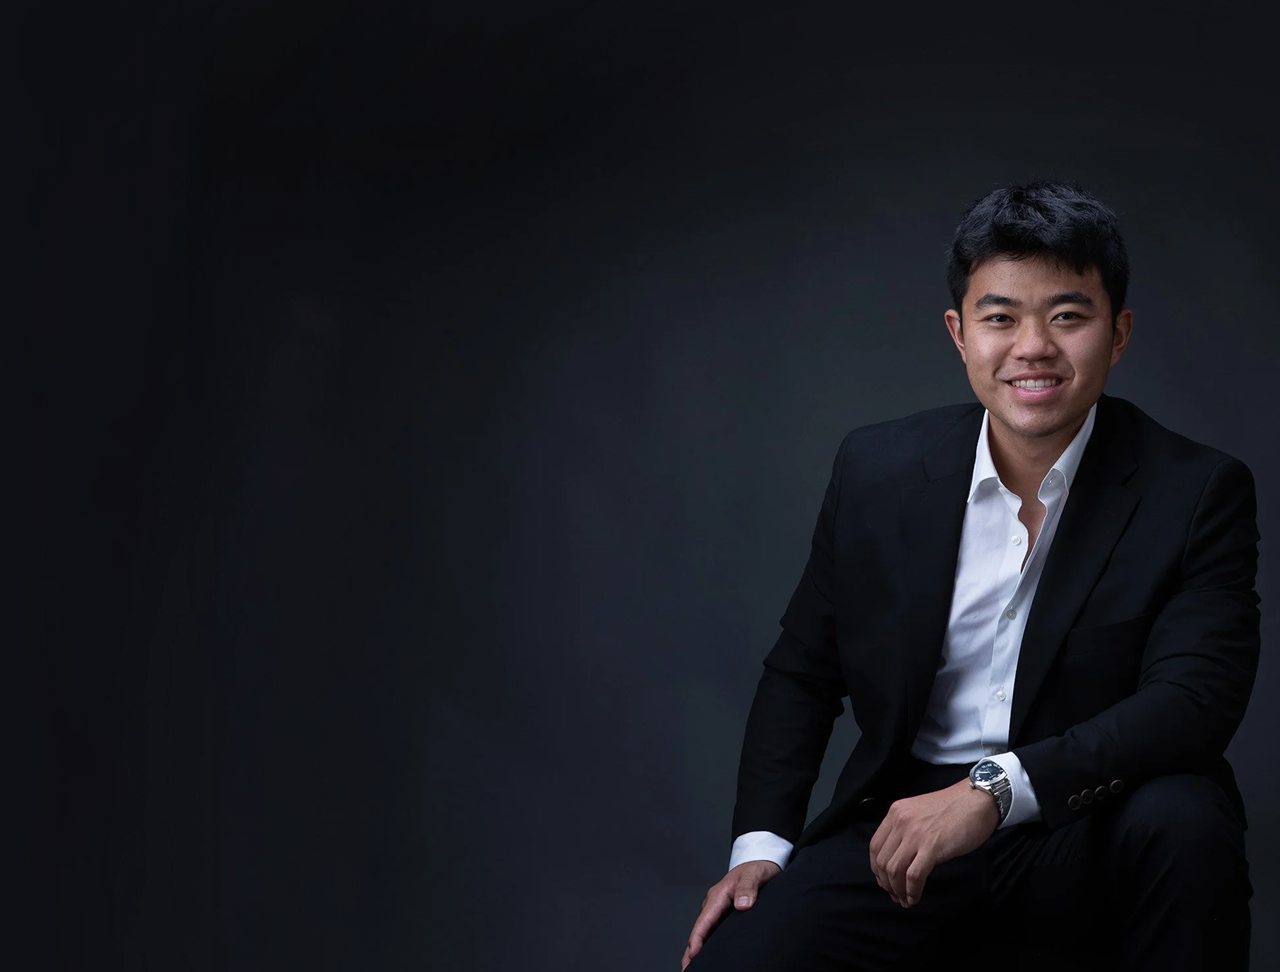
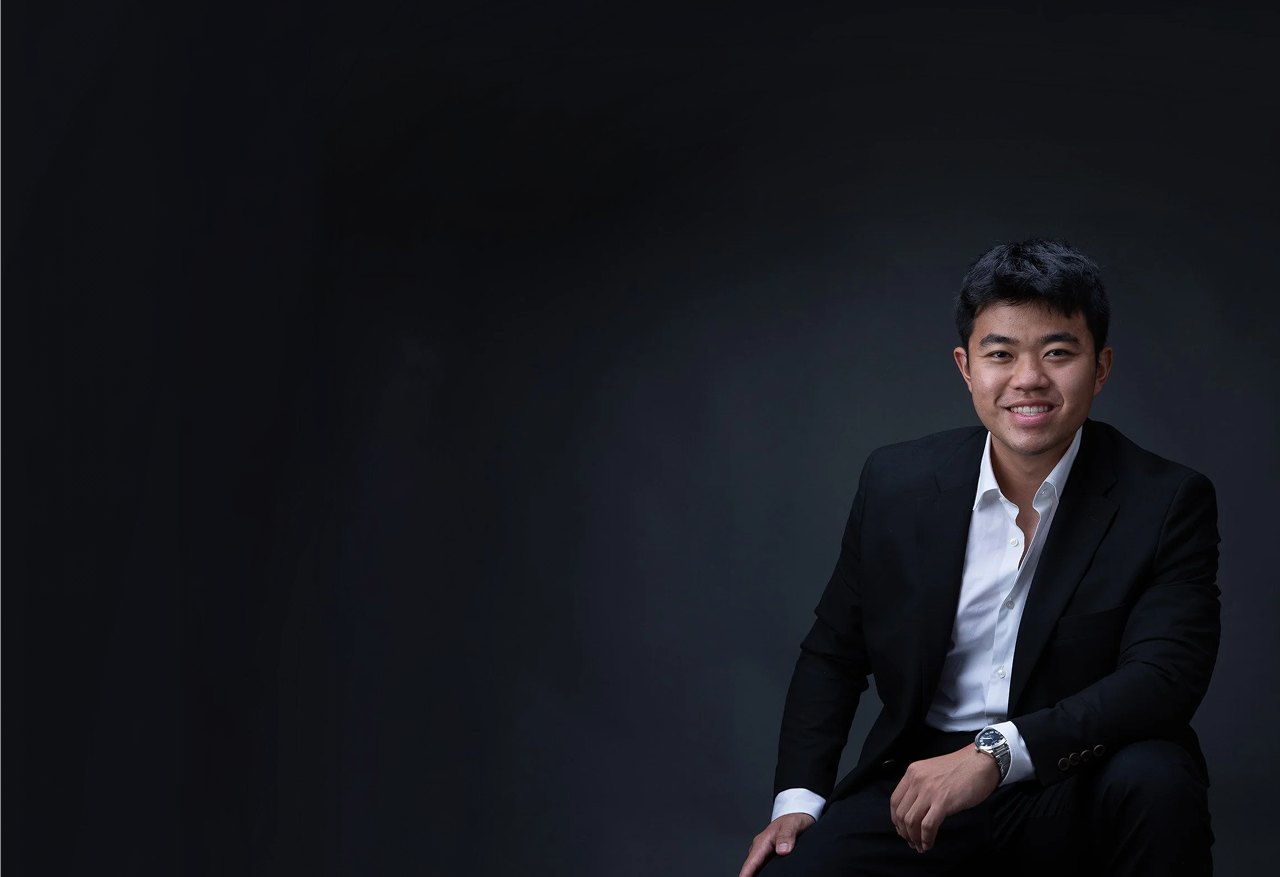
added animation and Landing Adjustment

Changed region(s): [[0.5312, 0.1847, 1.0, 1.0]]

diff --git a/src/components/Projects.css b/src/components/Projects.css
@@ -38,7 +38,7 @@
 .projects-grid {
     display: grid;
     grid-template-columns: 1fr 1fr;
-    height: 840px;
+    height: 650px;
 }
 
 .project-card {
@@ -46,6 +46,23 @@
     height: 100%;
     overflow: hidden;
     cursor: pointer;
+}
+
+.project-card::after {
+    content: '';
+    position: absolute;
+    top: 0;
+    left: 0;
+    width: 100%;
+    height: 100%;
+    background-color: rgba(0, 0, 0, 0.50);
+    transition: background-color 0.5s ease;
+    z-index: 1;
+    pointer-events: none;
+}
+
+.project-card:hover::after {
+    background-color: rgba(0, 0, 0, 0);
 }
 
 .project-poster {
@@ -61,11 +78,12 @@
 
 .project-text-overlay {
     position: absolute;
-    bottom: 342px;
+    bottom: 250px;
     left: 0;
     width: 100%;
     text-align: center;
     pointer-events: none;
+    z-index: 2;
 }
 
 .project-text-overlay h3 {

diff --git a/src/components/Projects.tsx b/src/components/Projects.tsx
@@ -12,7 +12,12 @@ export default function Projects() {
             </div>
             <div className="projects-grid">
                 <div className="project-card animate-on-scroll">
-                    <video src={ComposerReel} className="project-poster project-poster-1" autoPlay loop muted playsInline />
+                    <video 
+                        src={ComposerReel} 
+                        className="project-poster project-poster-1" 
+                        autoPlay loop muted playsInline 
+                        ref={(el) => { if (el) el.playbackRate = 0.6; }}
+                    />
                     <div className="project-text-overlay">
                         <h3>Composition<br />Credits</h3>
                     </div>

diff --git a/src/components/Hero.css b/src/components/Hero.css
@@ -1,7 +1,7 @@
 .hero-section {
     position: relative;
     height: 100vh;
-    min-height: 900px;
+    min-height: 800px;
     width: 100%;
     display: flex;
     align-items: center;